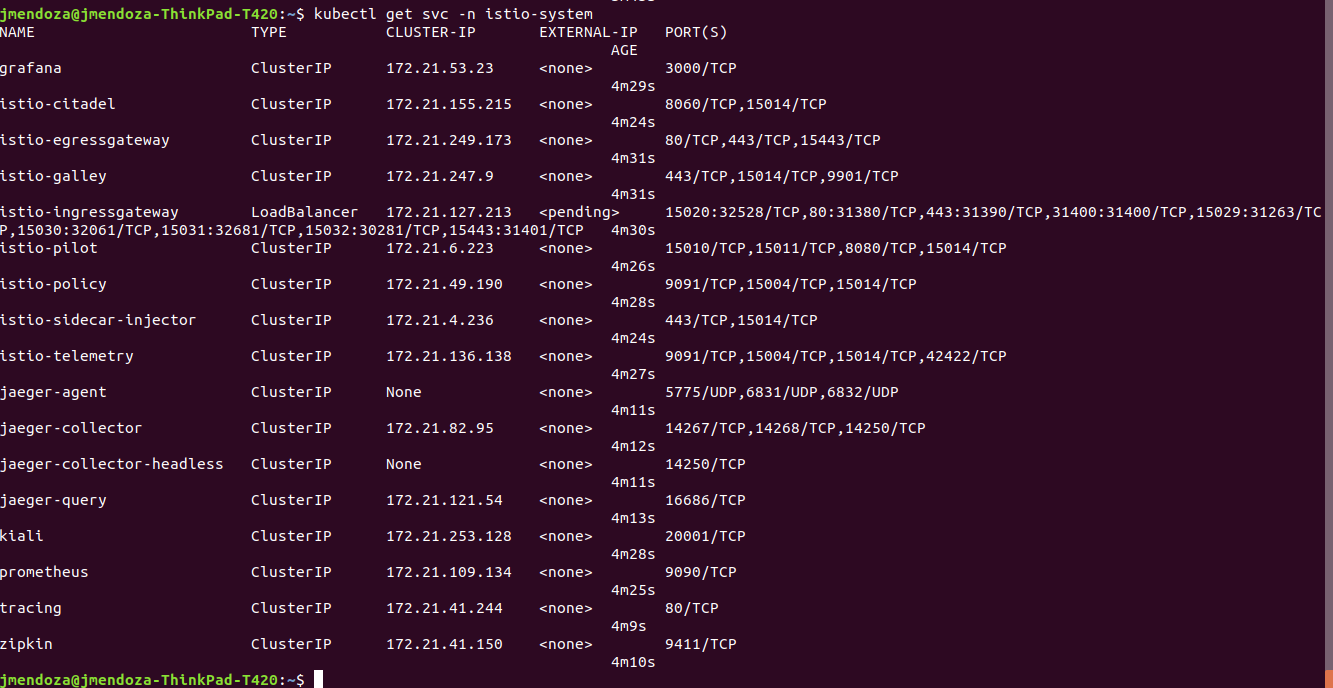
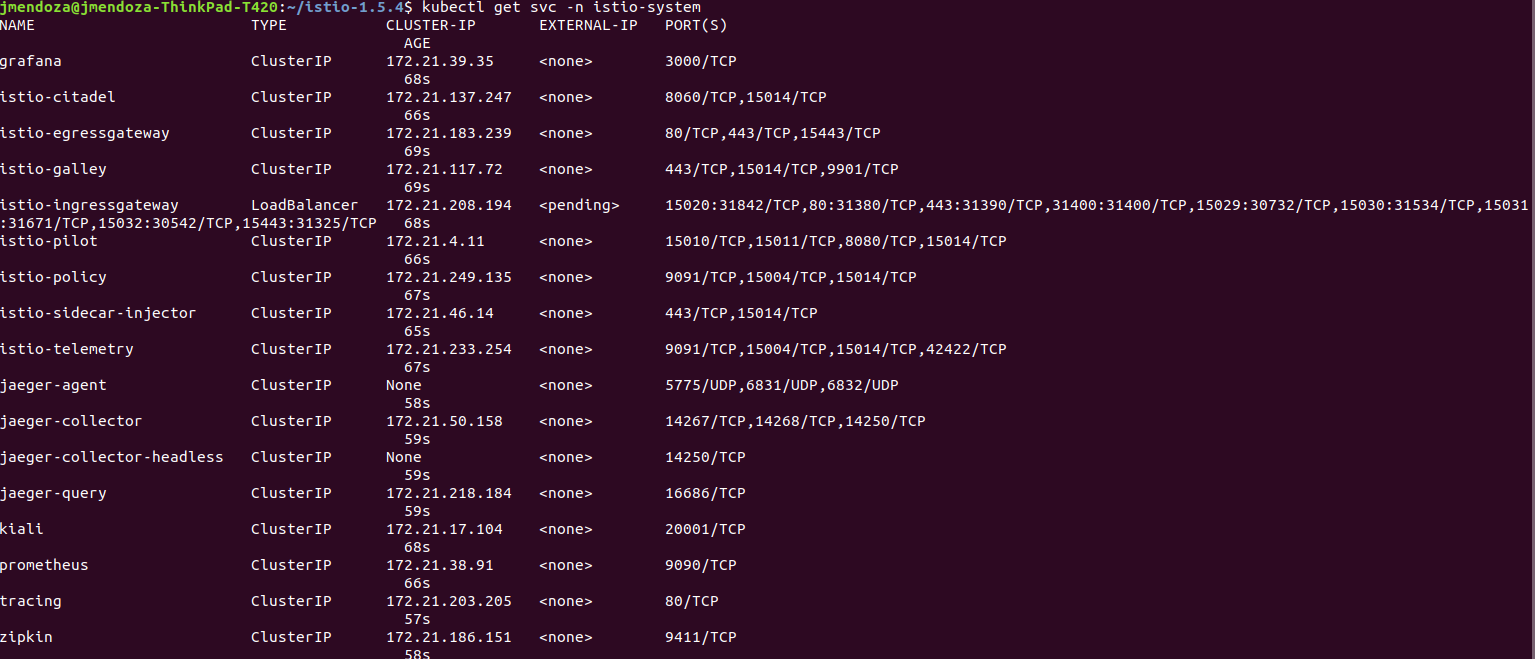
Update README.md

diff --git a/README.md b/README.md
@@ -2,7 +2,7 @@
 
 Example of how use Istio and IBM Cloud Kubernetes Service.
 
-### Create Kubernetes cluster in IBM Cloud
+## Create Kubernetes cluster in IBM Cloud
 
 ![Screenshot](prtsc/Istio-K8S-Cloud-3.png)
 
@@ -20,11 +20,33 @@ The service plug-in is displayed in the results as container-service/kubernetes-
 
 ### Set the context for your cluster in your CLI
 
-jmendoza@jmendoza-ThinkPad-T420:~$ ibmcloud ks clusters
-
-jmendoza@jmendoza-ThinkPad-T420:~$ ibmcloud ks cluster config --cluster k8s-cluster-jm
-
 ![Screenshot](prtsc/Istio-K8S-Cloud-4.png)
+
+## Install Istio on IBM Cloud Kubernetes Service
+
+![Screenshot](prtsc/Istio-K8S-Cloud-7.png)
+
+![Screenshot](prtsc/Istio-K8S-Cloud-8.png)
+
+![Screenshot](prtsc/Istio-K8S-Cloud-9.png)
+
+![Screenshot](prtsc/Istio-K8S-Cloud-9.1.png)
+
+Ensure that the istio-* Kubernetes services are deployed before you continue:
+
+![Screenshot](prtsc/Istio-K8S-Cloud-10.png)
+
+Ensure the corresponding pods istio-citadel-*, istio-ingressgateway-*, istio-pilot-*, and istio-policy-* are all in the Running state before you continue.
+
+![Screenshot](prtsc/Istio-K8S-Cloud-11.png)
+
+
+
+
+
+
+
+
 
 
 
